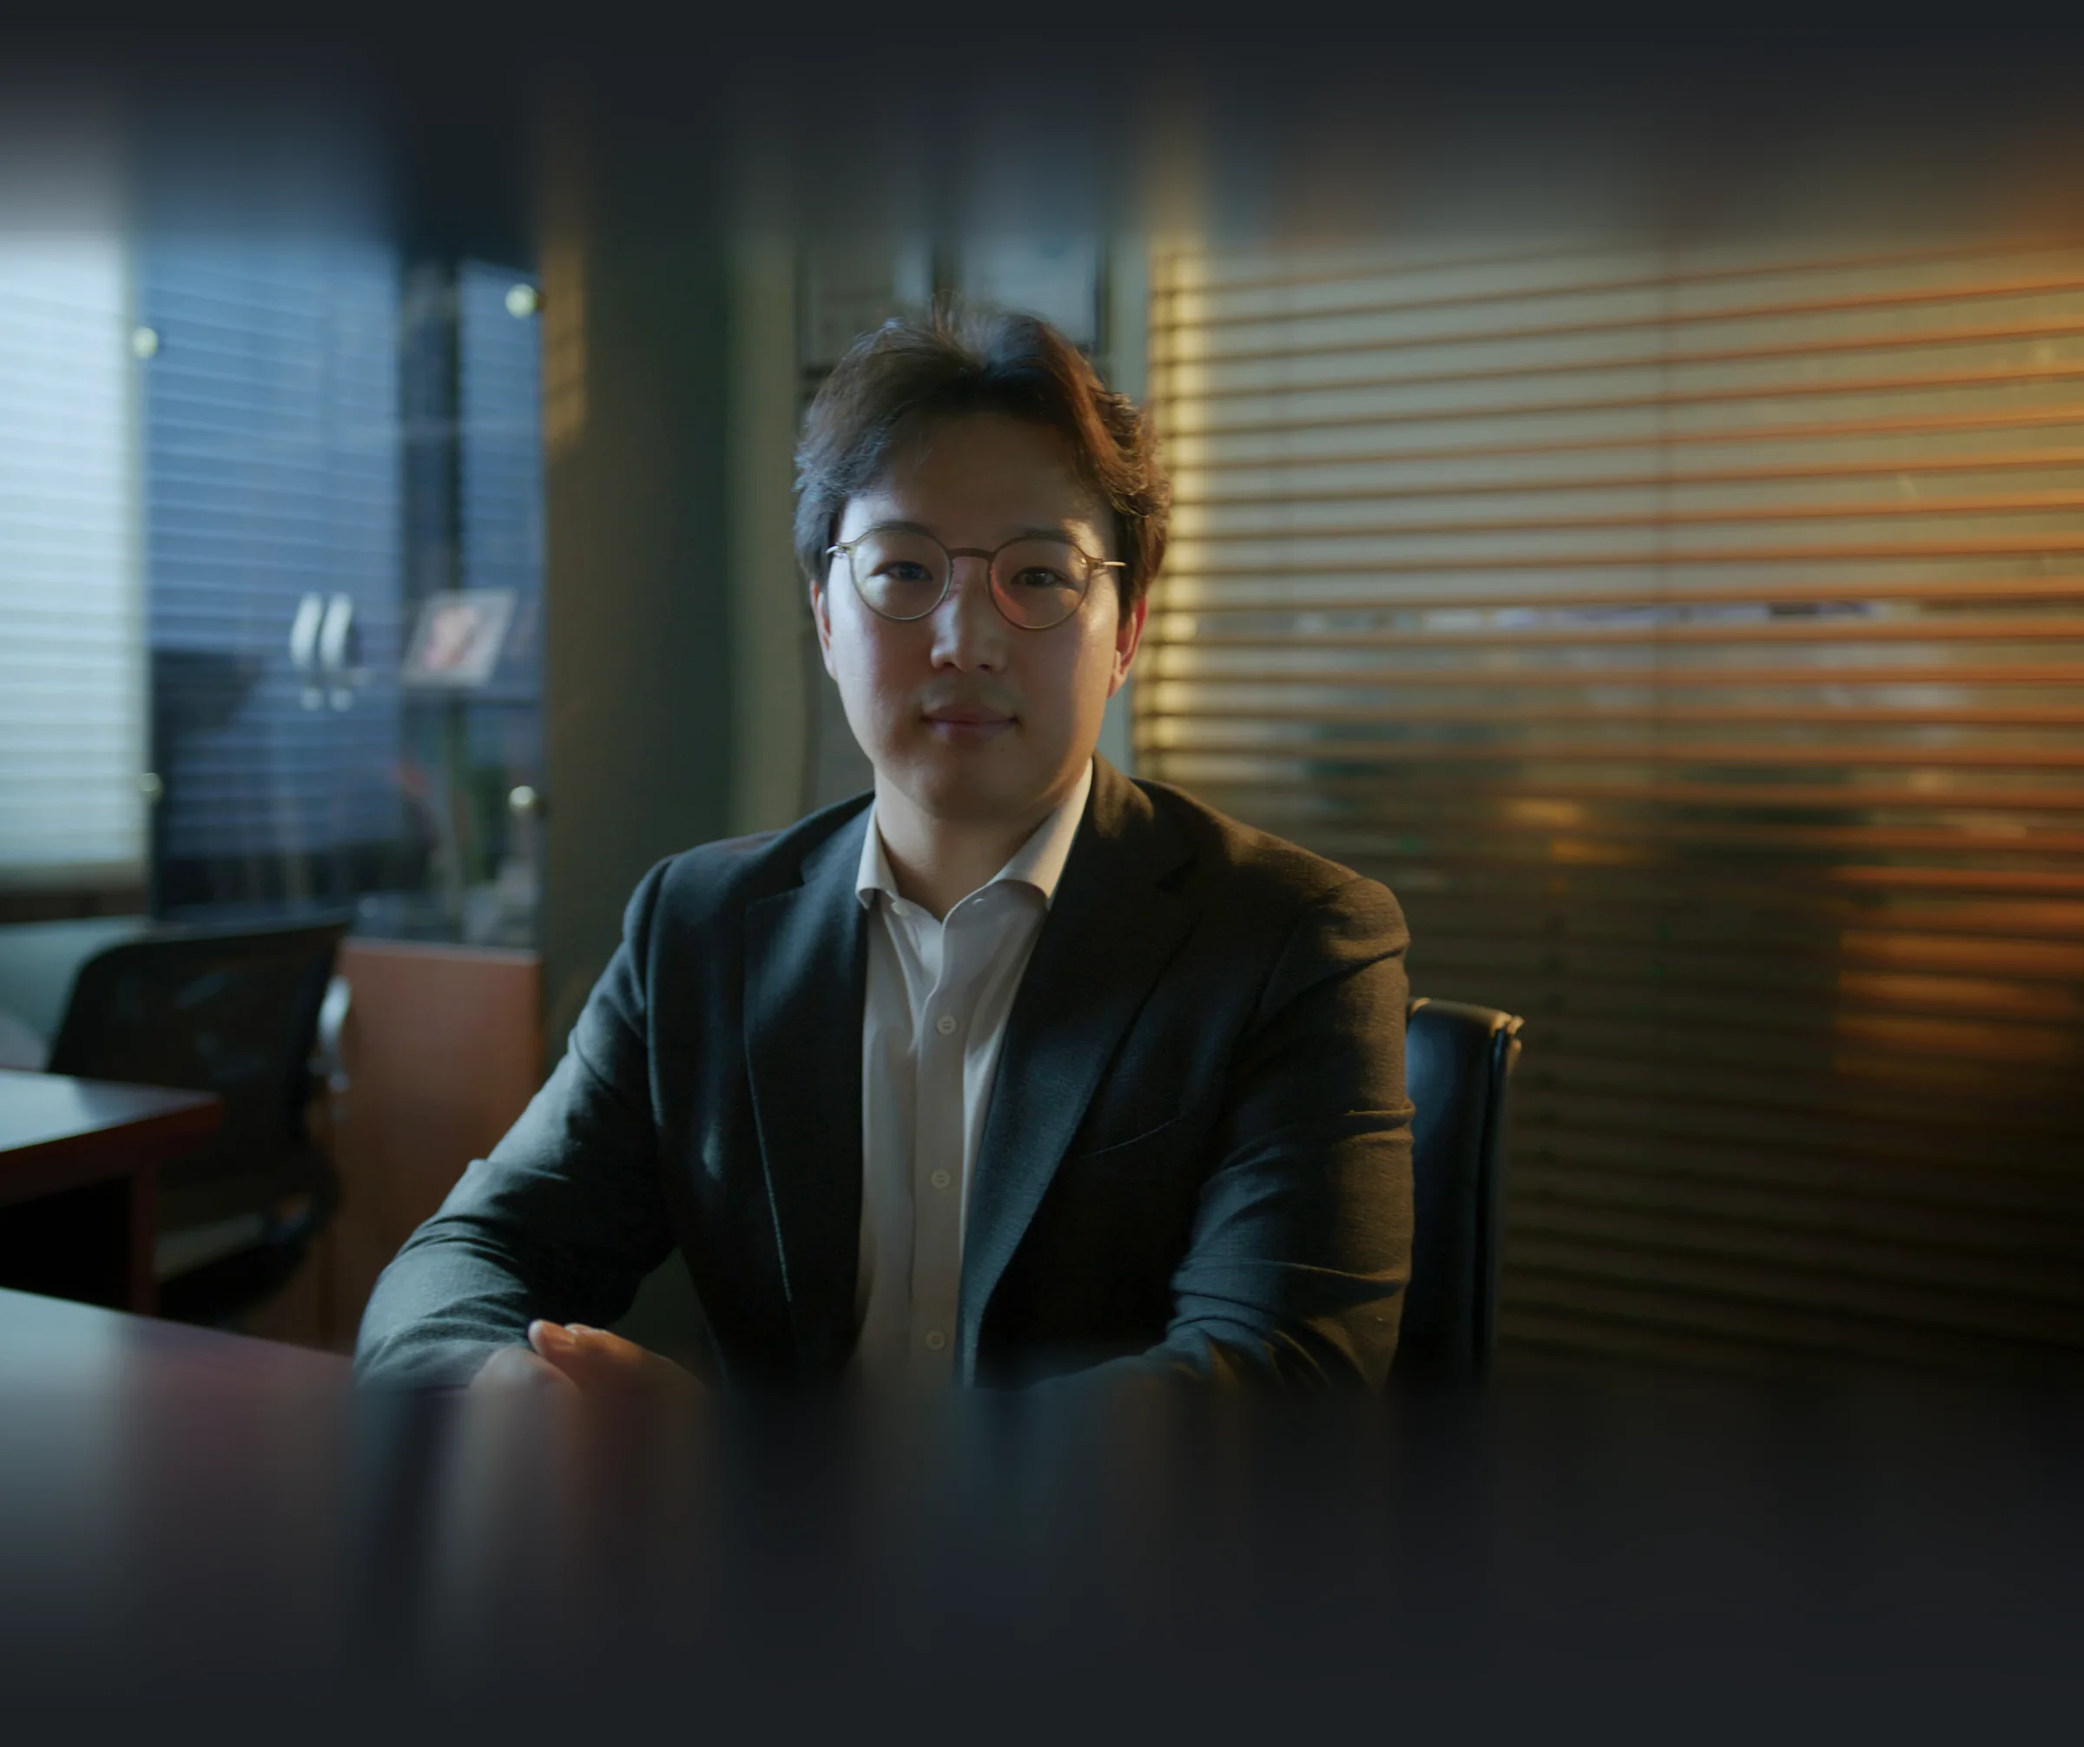
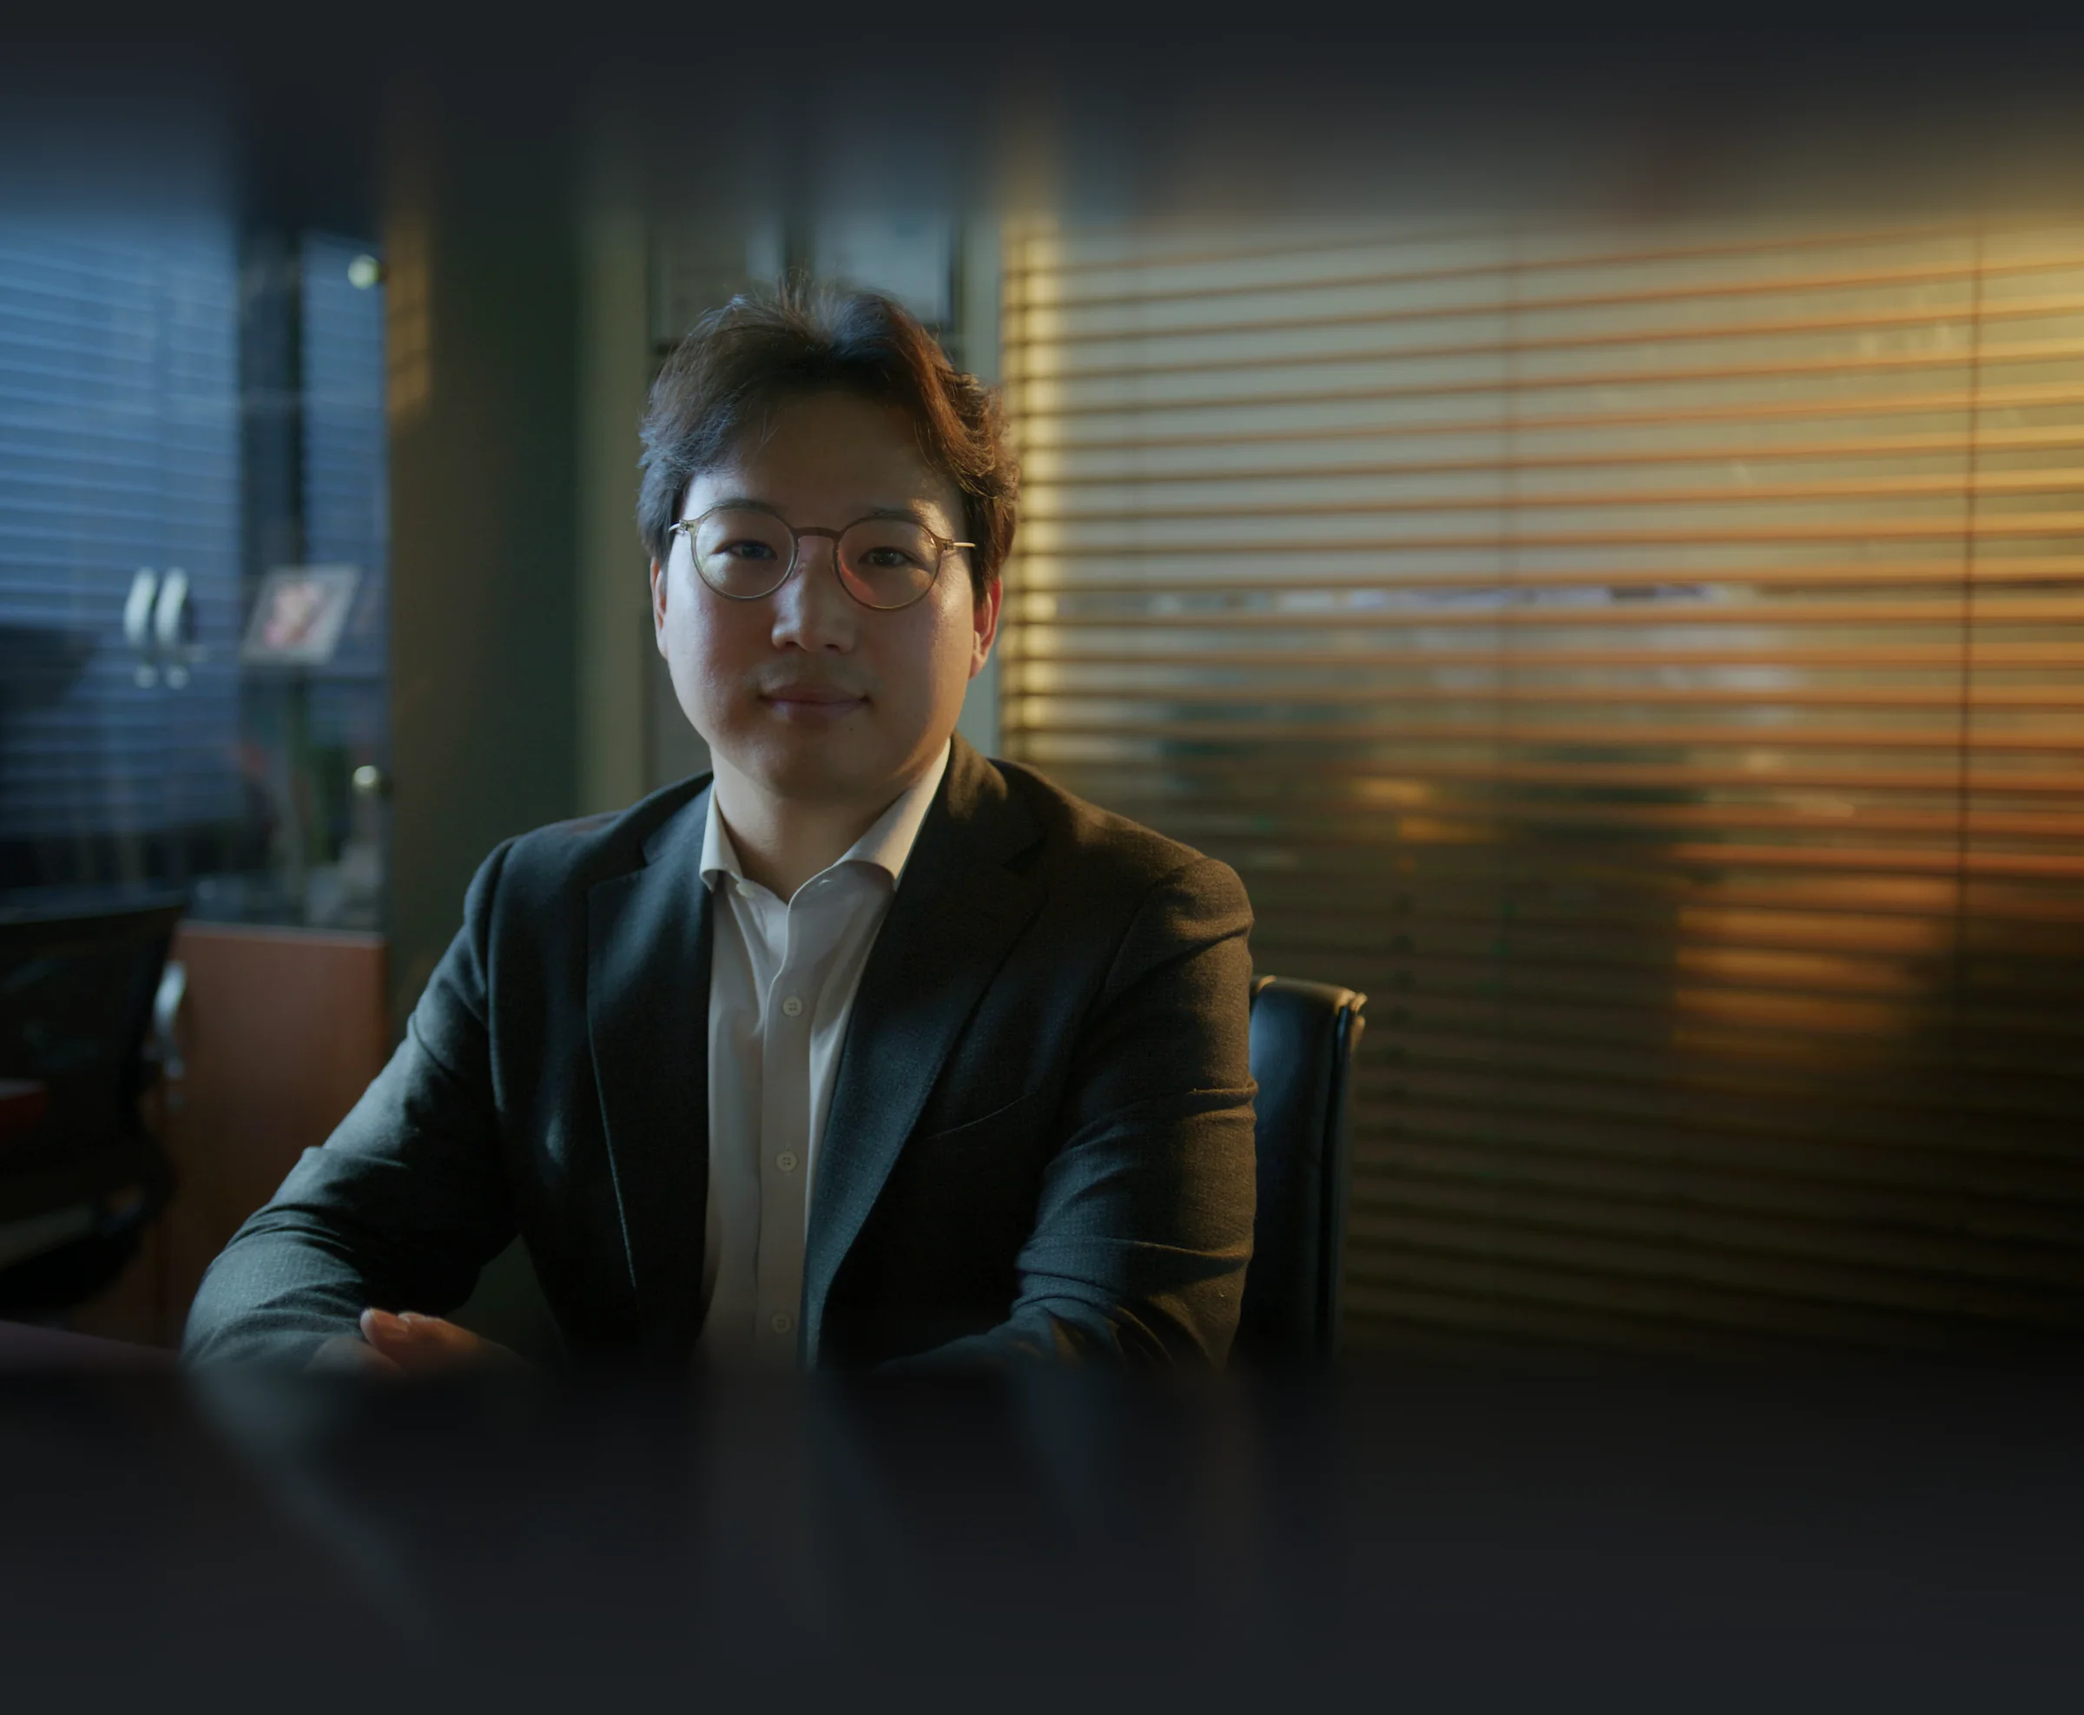
대표 사진을 새 사진 풀샷으로 교체 (얼굴 보정 없음)
Claude-Session: https://claude.ai/code/session_01XL3ePyjBS7kW1UT3RnQmDk

diff --git a/app/about/page.tsx b/app/about/page.tsx
@@ -25,7 +25,7 @@ export default async function AboutPage() {
               <img
                 src={about.ceoImage}
                 alt={`${about.ceoTitle} ${about.ceoName}`}
-                className="absolute inset-0 h-full w-full object-cover object-[46%_50%]"
+                className="absolute inset-0 h-full w-full object-cover object-[40%_50%]"
               />
               <div className="absolute inset-x-0 bottom-0 h-1/3 bg-gradient-to-t from-charcoal to-transparent" aria-hidden />
             </div>
